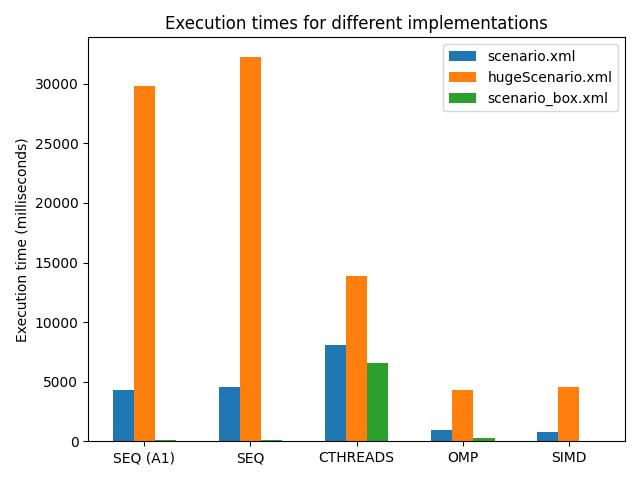
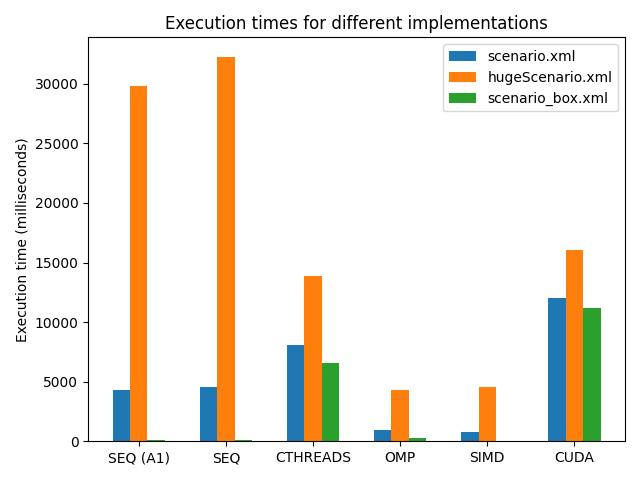
add cuda and regenerate plot

Changed region(s): [[0.3125, 0.0938, 0.7812, 0.9688], [0.1562, 0.1562, 0.2812, 0.9688], [0.8438, 0.5, 0.9375, 0.9688]]

diff --git a/plots2.py b/plots2.py
@@ -11,7 +11,7 @@ with open("results2.txt", 'r') as f:
     
     lines = f.readlines()
 
-    for _ in range(4):
+    for _ in range(5):
         labels.append(lines.pop(0).strip().split(" ")[0])
 
         lines.pop(0)
